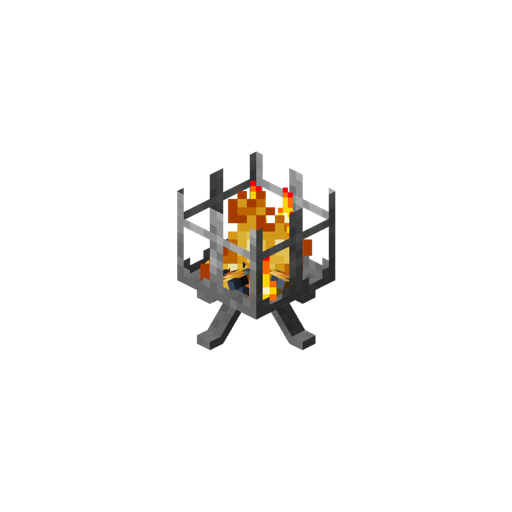
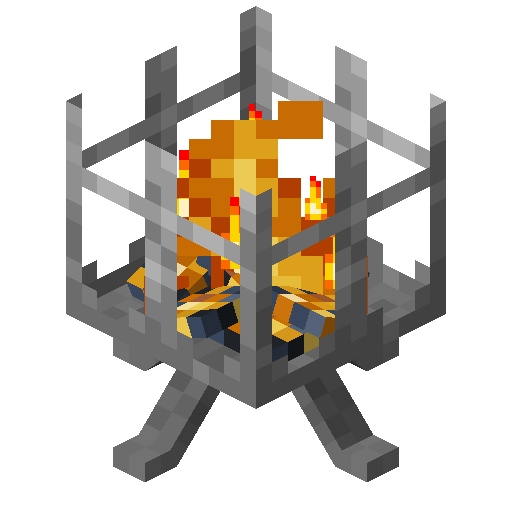
Deploying to gh-pages from @ LambdAurora/AurorasDecorations@c1ba2e27ba17b0fc778ba12053d43b57a3a2d48c 🚀

diff --git a/sawmill.html b/sawmill.html
@@ -20,7 +20,7 @@
   </head>
   <body>
     <main>
-      <h1 id="sawmill">Sawmill</h1><p>The sawmill is a very practical crafting station centered around wood blocks. It works the same as a regular stonecutter.</p><div style="display: flex; justify-content: center;"> <img alt="Sawmill" src="images/render/sawmill.png" width="256" height="256" /> </div><h2 id="crafting">Crafting</h2><table class="crafting-grid"> <thead>     <th>Crafting Table</th> </thead> <tbody>     <tr>         <td></td>         <td>Iron Ingot</td>         <td></td>     </tr>     <tr>         <td>Wooden Plank</td>         <td>Wooden Plank</td>         <td>Wooden Plank</td>     </tr> </tbody> </table><h3 id="sawmill-available-recipes">Sawmill Available Recipes</h3><p>From a log you can craft:</p><ul><li>Log Stump</li><li>Planks (4)</li><li>Small Log Pile (2)</li><li>Wood</li></ul><p>From a plank you can craft:</p><ul><li>Bench</li><li>Boat</li><li>Ladder (4)</li><li>Seat Rest</li><li><a href="shelves.html">Shelves</a></li><li><a href="sign_posts.html">Sign Post</a></li><li>Stick (2)</li><li>Wooden Button</li><li>Wooden Door</li><li>Wooden Fence (2)</li><li>Wooden Fence Gate</li><li>Wooden Pressure Plate</li><li>Wooden Slab (2)</li><li>Wooden Stairs</li><li>Wooden Trapdoor</li></ul><h2 id="notes">Notes</h2><ul><li>"Wooden" here means any of the available wood types in your game, it does not represent a single block in particular.</li></ul>
+      <h1 id="sawmill">Sawmill</h1><p>The sawmill is a very practical crafting station centered around wood blocks. It works the same as a regular stonecutter.</p><div style="display: flex; justify-content: center;"> <img alt="Sawmill" src="images/render/sawmill.png" width="128" height="128" /> </div><h2 id="crafting">Crafting</h2><table class="crafting-grid"> <thead>     <th>Crafting Table</th> </thead> <tbody>     <tr>         <td></td>         <td>Iron Ingot</td>         <td></td>     </tr>     <tr>         <td>Wooden Plank</td>         <td>Wooden Plank</td>         <td>Wooden Plank</td>     </tr> </tbody> </table><h3 id="sawmill-available-recipes">Sawmill Available Recipes</h3><p>From a log you can craft:</p><ul><li>Log Stump</li><li>Planks (4)</li><li>Small Log Pile (2)</li><li>Wood</li></ul><p>From a plank you can craft:</p><ul><li>Bench</li><li>Boat</li><li>Ladder (4)</li><li>Seat Rest</li><li><a href="shelves.html">Shelves</a></li><li><a href="sign_posts.html">Sign Post</a></li><li>Stick (2)</li><li>Wooden Button</li><li>Wooden Door</li><li>Wooden Fence (2)</li><li>Wooden Fence Gate</li><li>Wooden Pressure Plate</li><li>Wooden Slab (2)</li><li>Wooden Stairs</li><li>Wooden Trapdoor</li></ul><h2 id="notes">Notes</h2><ul><li>"Wooden" here means any of the available wood types in your game, it does not represent a single block in particular.</li></ul>
     </main>
     <footer class="ls-app-footer">
       <div class="ls-app-footer-license">

diff --git a/braziers.html b/braziers.html
@@ -20,7 +20,7 @@
   </head>
   <body>
     <main>
-      <h1 id="braziers">Braziers</h1><p>Braziers are decorative light sources that come in three different types: regular, soul and <a href="copper_sulfate.html">copper sulfate</a>.<br />They can be extinguished with a shovel, and lit up with a flint and steel, like campfires.</p><div style="display: flex; justify-content: center;"> <img alt="Brazier" src="images/render/brazier.png" width="256" height="256" /> <img alt="Lit Brazier" src="images/render/lit_brazier.png" width="256" height="256" /> <img alt="Soul Brazier" src="images/render/soul_brazier.png" width="256" height="256" /> <img alt="Copper Sulfate Brazier" src="images/render/copper_sulfate_brazier.png" width="256" height="256" /> </div><h2 id="crafting">Crafting</h2><table class="crafting-grid"> <thead>     <th>Crafting Table</th> </thead> <tbody>     <tr>         <td>Iron Ingot</td>         <td>Campfire</td>         <td>Iron Ingot</td>     </tr>     <tr>         <td></td>         <td>Iron Ingot</td>         <td></td>     </tr> </tbody> </table><p>Note: the type of the resulting brazier will depend on the type of campfire put into the recipe.</p><h2 id="notes">Notes</h2><ul><li>Braziers will burn entities inside them.</li><li>Copper Sulfate Brazier inherits the special properties of the <a href="copper_sulfate.html#campfire">Copper Sulfate Campfire</a></li></ul>
+      <h1 id="braziers">Braziers</h1><p>Braziers are decorative light sources that come in three different types: regular, soul and <a href="copper_sulfate.html">copper sulfate</a>.<br />They can be extinguished with a shovel, and lit up with a flint and steel, like campfires.</p><div class="wiki-gallery"> <img alt="Brazier" src="images/render/brazier.png" width="128" height="128" /> <img alt="Lit Brazier" src="images/render/lit_brazier.png" width="128" height="128" /> <img alt="Soul Brazier" src="images/render/soul_brazier.png" width="128" height="128" /> <img alt="Copper Sulfate Brazier" src="images/render/copper_sulfate_brazier.png" width="128" height="128" /> </div><h2 id="crafting">Crafting</h2><table class="crafting-grid"> <thead>     <th>Crafting Table</th> </thead> <tbody>     <tr>         <td>Iron Ingot</td>         <td>Campfire</td>         <td>Iron Ingot</td>     </tr>     <tr>         <td></td>         <td>Iron Ingot</td>         <td></td>     </tr> </tbody> </table><p>Note: the type of the resulting brazier will depend on the type of campfire put into the recipe.</p><h2 id="notes">Notes</h2><ul><li>Braziers will burn entities inside them.</li><li>Copper Sulfate Brazier inherits the special properties of the <a href="copper_sulfate.html#campfire">Copper Sulfate Campfire</a></li></ul>
     </main>
     <footer class="ls-app-footer">
       <div class="ls-app-footer-license">

diff --git a/style.css b/style.css
@@ -9,7 +9,7 @@
     width: 100%;
 }
 
-.crafting-grid td, .crafting-grid th  {
+.crafting-grid td, .crafting-grid th {
     border: 1px solid var(--ls-theme-border-color);
     text-align: center;
 }
@@ -67,4 +67,10 @@ pre {
     line-height: 1.45;
     border: 1px solid #ffffff1a !important;
     border-radius: 3px;
+}
+
+.wiki-gallery {
+    display: flex;
+    justify-content: center;
+    flex-wrap: wrap;
 }
